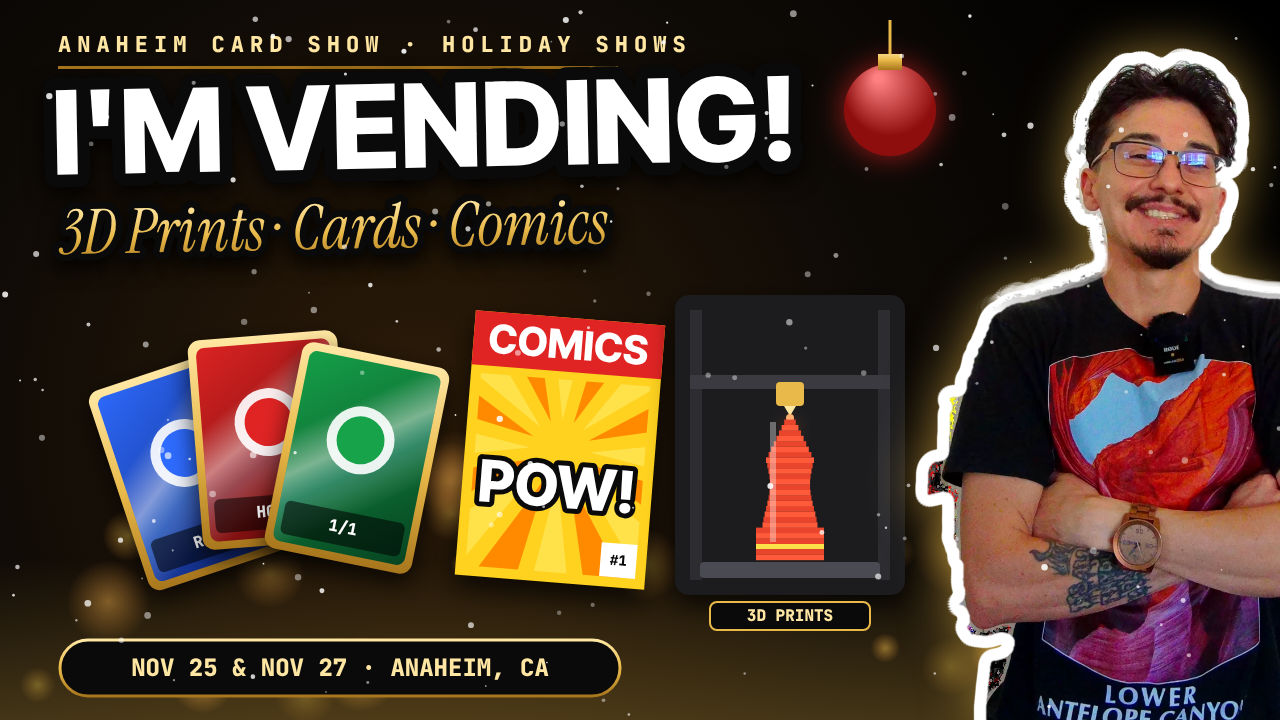
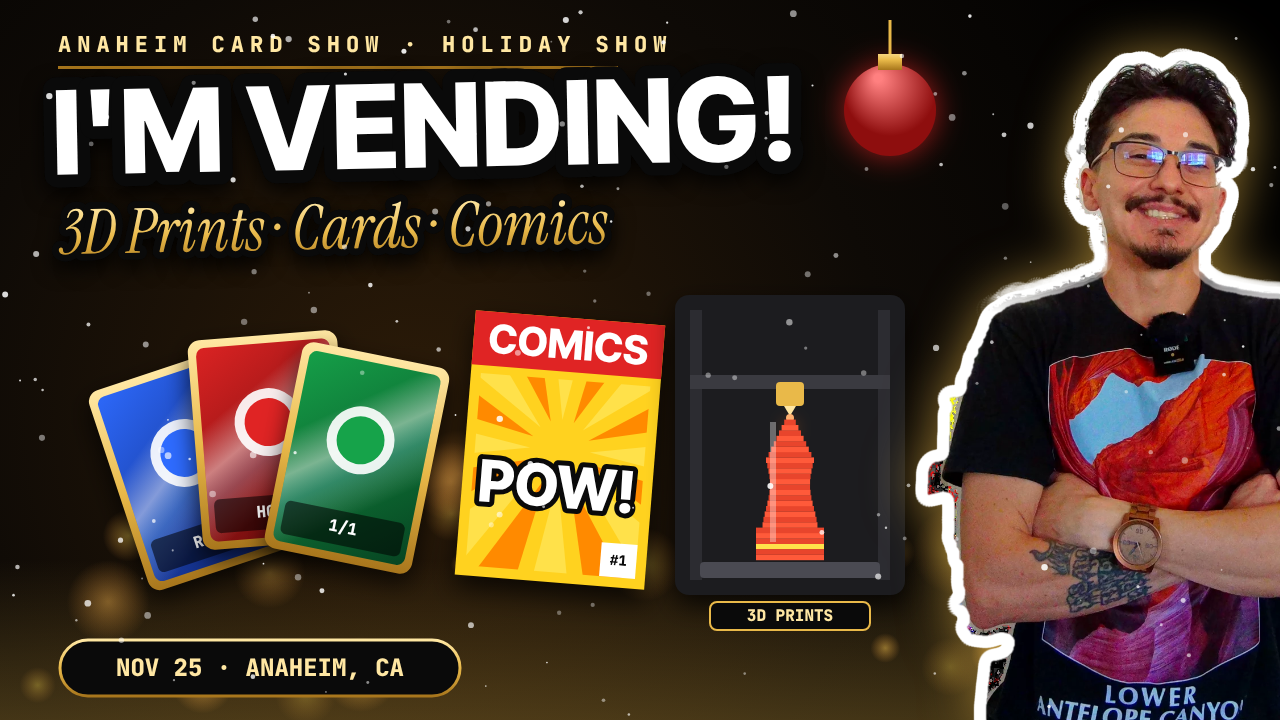
Card show thumbnails: Nov 25 only
Claude-Session: https://claude.ai/code/session_01NSJvdmHsHoazKiuuGVQfMY

Changed region(s): [[0.0938, 0.8861, 0.5, 0.9778]]

diff --git a/story/cardshow/thumb_vertical.html b/story/cardshow/thumb_vertical.html
@@ -42,12 +42,12 @@ let DATES;
   photo(P.gameboy, 545, 770, 330, 0.03, null);
 
   // ---- headline (top-left)
-  c.font = M(800, 30); c.fillStyle = GOLD[0]; c.textBaseline = 'middle'; c.textAlign = 'center'; c.letterSpacing = '6px'; c.fillText('ANAHEIM CARD SHOW', W / 2, 120); c.font = M(800, 24); c.fillText('HOLIDAY SHOWS', W / 2, 162); c.letterSpacing = '0px'; c.textAlign = 'left';
+  c.font = M(800, 30); c.fillStyle = GOLD[0]; c.textBaseline = 'middle'; c.textAlign = 'center'; c.letterSpacing = '6px'; c.fillText('ANAHEIM CARD SHOW', W / 2, 120); c.font = M(800, 24); c.fillText('HOLIDAY SHOW', W / 2, 162); c.letterSpacing = '0px'; c.textAlign = 'left';
   c.fillStyle = gold(186, 190); c.fillRect(W / 2 - 300, 190, 600, 3);
   word("I'M VENDING!", W / 2, 300, 156, '#FFFFFF', D, -0.02, 'center');
   word('3D Prints · Cards · Comics', W / 2, 430, 84, null, SER, -0.02, 'center');
   // ---- dates pill
-    DATES = () => { c.save(); rr(W / 2 - 330, 1770, 660, 80, 40); c.fillStyle = INK; c.fill(); c.lineWidth = 4; c.strokeStyle = gold(1770, 1850); c.stroke(); c.font = M(800, 34); c.fillStyle = '#FFE7A3'; c.textBaseline = 'middle'; c.textAlign = 'center'; c.fillText('NOV 25 & NOV 27 · ANAHEIM, CA', W / 2, 1811); c.restore(); };
+    DATES = () => { c.save(); rr(W / 2 - 260, 1770, 520, 80, 40); c.fillStyle = INK; c.fill(); c.lineWidth = 4; c.strokeStyle = gold(1770, 1850); c.stroke(); c.font = M(800, 34); c.fillStyle = '#FFE7A3'; c.textBaseline = 'middle'; c.textAlign = 'center'; c.fillText('NOV 25 · ANAHEIM, CA', W / 2, 1811); c.restore(); };
   // ---- ornament
   c.save(); c.translate(960, 110); c.shadowColor = 'rgba(224,36,36,0.7)'; c.shadowBlur = 30; const og = c.createRadialGradient(-12, -12, 4, 0, 0, 46); og.addColorStop(0, '#FF8080'); og.addColorStop(1, '#8E0E0E'); c.beginPath(); c.arc(0, 20, 46, 0, TAU); c.fillStyle = og; c.fill(); c.shadowBlur = 0; c.fillStyle = gold(-40, -20); c.fillRect(-12, -36, 24, 16); c.strokeStyle = '#E9B949'; c.lineWidth = 3; c.beginPath(); c.moveTo(0, -36); c.lineTo(0, -70); c.stroke(); c.restore();
 

diff --git a/story/cardshow/thumb.html b/story/cardshow/thumb.html
@@ -59,12 +59,12 @@
   c.restore();
 
   // ---- headline (top-left)
-  c.font = M(800, 22); c.fillStyle = GOLD[0]; c.textBaseline = 'middle'; c.letterSpacing = '6px'; c.fillText('ANAHEIM CARD SHOW · HOLIDAY SHOWS', 58, 46); c.letterSpacing = '0px';
+  c.font = M(800, 22); c.fillStyle = GOLD[0]; c.textBaseline = 'middle'; c.letterSpacing = '6px'; c.fillText('ANAHEIM CARD SHOW · HOLIDAY SHOW', 58, 46); c.letterSpacing = '0px';
   c.fillStyle = gold(56, 60); c.fillRect(58, 66, 560, 3);
   word("I'M VENDING!", 52, 140, 116, '#FFFFFF');
   word('3D Prints · Cards · Comics', 60, 238, 62, null, SER, -0.02);
   // ---- dates pill
-  c.save(); rr(60, 640, 560, 56, 28); c.fillStyle = INK; c.fill(); c.lineWidth = 3; c.strokeStyle = gold(640, 696); c.stroke(); c.font = M(800, 24); c.fillStyle = '#FFE7A3'; c.textBaseline = 'middle'; c.textAlign = 'center'; c.fillText('NOV 25 & NOV 27 · ANAHEIM, CA', 340, 669); c.restore();
+  c.save(); rr(60, 640, 400, 56, 28); c.fillStyle = INK; c.fill(); c.lineWidth = 3; c.strokeStyle = gold(640, 696); c.stroke(); c.font = M(800, 24); c.fillStyle = '#FFE7A3'; c.textBaseline = 'middle'; c.textAlign = 'center'; c.fillText('NOV 25 · ANAHEIM, CA', 260, 669); c.restore();
   // ---- ornament
   c.save(); c.translate(890, 90); c.shadowColor = 'rgba(224,36,36,0.7)'; c.shadowBlur = 30; const og = c.createRadialGradient(-12, -12, 4, 0, 0, 46); og.addColorStop(0, '#FF8080'); og.addColorStop(1, '#8E0E0E'); c.beginPath(); c.arc(0, 20, 46, 0, TAU); c.fillStyle = og; c.fill(); c.shadowBlur = 0; c.fillStyle = gold(-40, -20); c.fillRect(-12, -36, 24, 16); c.strokeStyle = '#E9B949'; c.lineWidth = 3; c.beginPath(); c.moveTo(0, -36); c.lineTo(0, -70); c.stroke(); c.restore();
 
